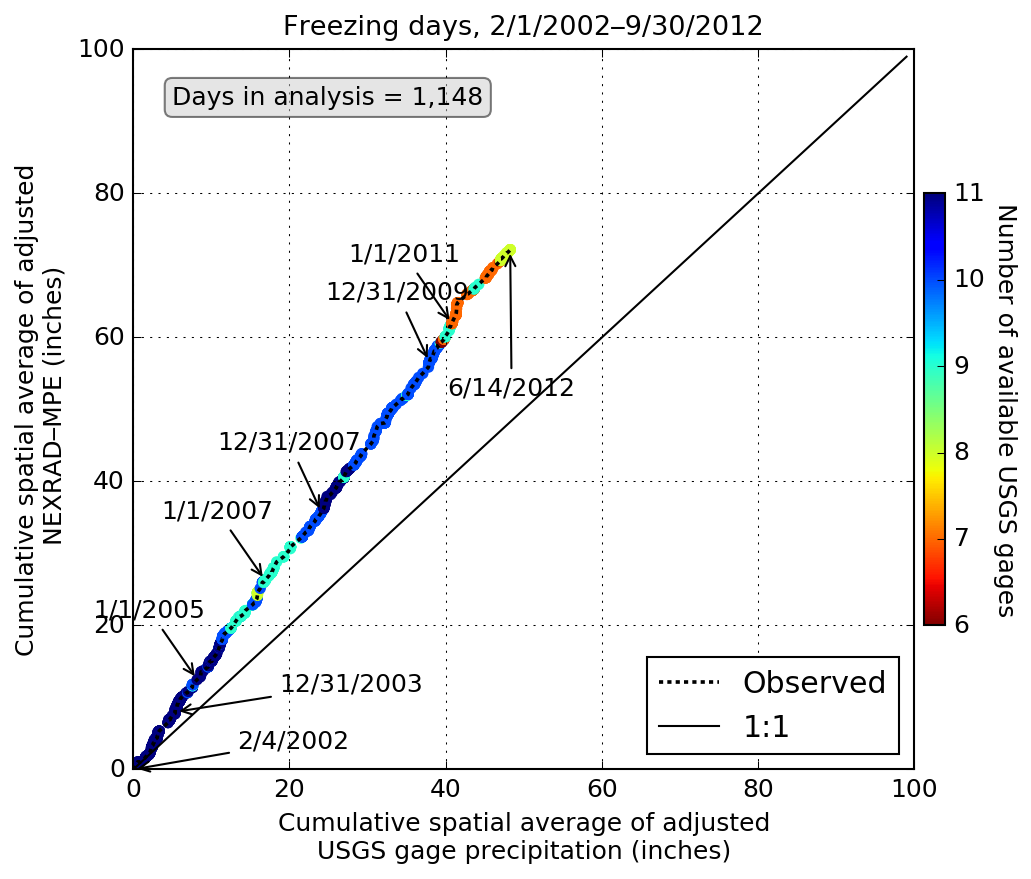
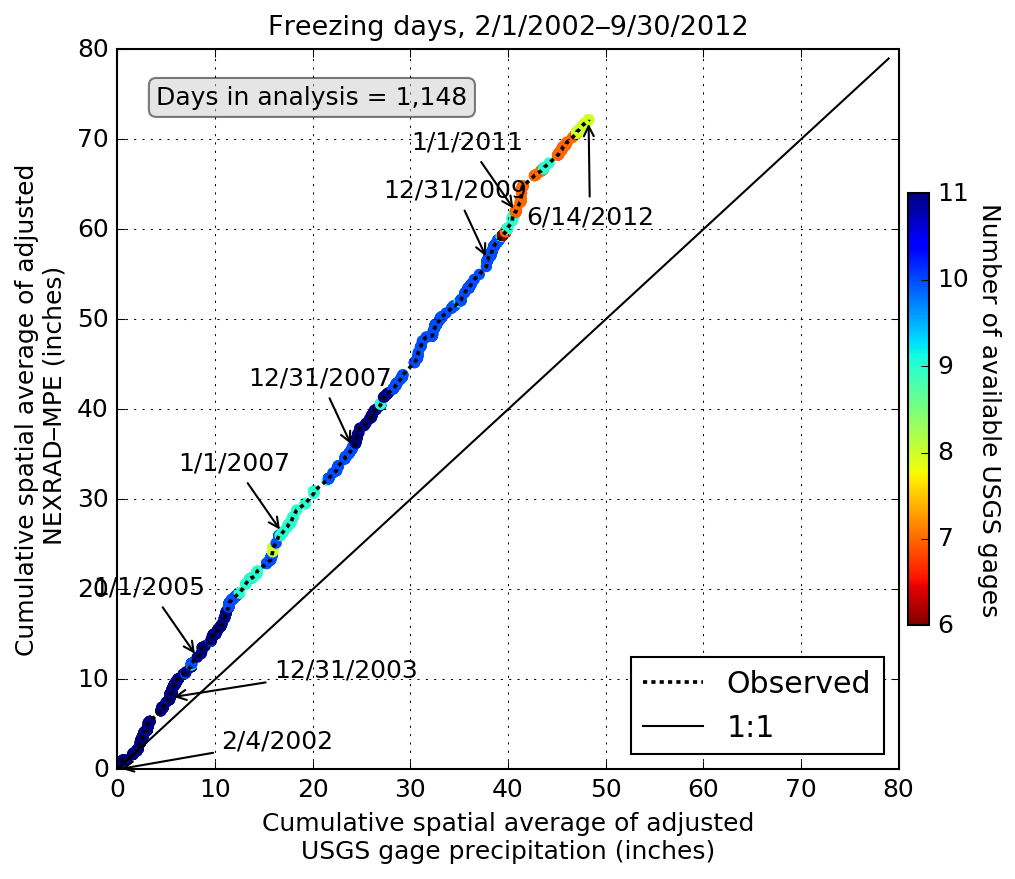
more follow-up revisions; move date annotate; capitalization; text spacing

diff --git a/plot_scripts/my_plot_module.py b/plot_scripts/my_plot_module.py
@@ -33,9 +33,11 @@ def colormap(in_fig,axes,x,y,color_values,text):
     cbar.ax.set_ylabel(text, rotation=270,labelpad=15)
 ###############################################################################    
 def axis_limits(x,y,axes):
-    if max(x) > 100 or max(y) > 100:
+    if max(x) > 300 or max(y) > 300:
+        base = 30
+    elif max(x) > 100 or max(y) > 100:
         base = 25
-    elif max(x) > 50 or max(y) > 50:
+    elif max(x) > 80 or max(y) > 80:
         base = 20
     elif max(x) > 25 or max(y) > 25:
         base = 10
@@ -80,7 +82,7 @@ def annotate_dates(criteria,ystart,finish,date_plot,x,y,axes):
                     date_list.remove(each)
             tick_cnt += 1 
     
-    for tick_yr in date_list: # always label first and last data point
+    for tick_yr in date_list: # always label first and last data point (max was -30,-70 modified 2/27/2018)
         if tick_yr == min(date_list) or tick_yr == date_list[1]:
             axes.annotate(datetime.datetime.strptime(tick_yr,'%Y-%m-%d %H:%M:%S').strftime('%#m/%#d/%Y'), xy=(x[date_plot.index(tick_yr)], 
                             y[date_plot.index(tick_yr)]),  xycoords='data',
@@ -89,7 +91,7 @@ def annotate_dates(criteria,ystart,finish,date_plot,x,y,axes):
         elif tick_yr == max(date_list):
             axes.annotate(datetime.datetime.strptime(tick_yr,'%Y-%m-%d %H:%M:%S').strftime('%#m/%#d/%Y'), xy=(x[date_plot.index(tick_yr)], 
                             y[date_plot.index(tick_yr)]),  xycoords='data',
-                            xytext=(-30, -70), textcoords='offset points',
+                            xytext=(-40, -50), textcoords='offset points',
                             arrowprops=dict(arrowstyle="->"))
         else:
             axes.annotate(datetime.datetime.strptime(tick_yr,'%Y-%m-%d %H:%M:%S').strftime('%#m/%#d/%Y'), xy=(x[date_plot.index(tick_yr)], 

diff --git a/parse_scripts/plot_parse_nexrad_hourly.py b/parse_scripts/plot_parse_nexrad_hourly.py
@@ -17,8 +17,8 @@ maindir = os.getcwd() + os.sep
 ######### User Input -> Options ############
 csv_out = 'no'
 mean_hist = 'yes'  # choice to creat plot 'yes' or 'no'
-type_plot = 'Fraction Hours Precip' # choices: 'Mean', 'Mean Intensity', 'Mean Cell', 'Total', 'Temperature Frequency', 'Hours Precip', 'Fraction Hours Precip'
-type_plot2 = '' # choices: 'Temperature Frequency', ''
+type_plot = 'Mean Cell' # choices: 'Mean', 'Mean Intensity', 'Mean Cell', 'Total', 'Temperature Frequency', 'Hours Precip', 'Fraction Hours Precip'
+type_plot2 = 'Temperature Frequency' # choices: 'Temperature Frequency', ''
 
 ### calculate helpful summary statistics input ###
 # temp range
@@ -283,7 +283,7 @@ if mean_hist == 'yes':
     ax1.set_xticks(tick_num+width)
     tick_labels = []
     for key in range(1,len(categories)+1):
-        tick_labels.append(str(categories['cat'+str(key)][0]) + ' ' + u"\u2013" + ' ' + str(categories['cat'+str(key)][1]))
+        tick_labels.append(str(categories['cat'+str(key)][0]) + u"\u2013" + str(categories['cat'+str(key)][1]))
     if len(categories) > 10:
         ax1.set_xticklabels(tick_labels,rotation=90,fontsize=9.8)
     else:

diff --git a/plot_scripts/plot_all_exceedence.py b/plot_scripts/plot_all_exceedence.py
@@ -21,7 +21,7 @@ ax1 = fig.add_subplot(111)
 ############# USER INPUT BLOCK ###############################################
 gage_nets = ['usgs','cocorahs'] # choices: 'cocorahs','usgs' 
 # NEXRAD data will be pulled from paired files in gage_nets
-criteria = 'Freeze' # choicea are 'Freeze' or 'Thaw' #see find_freeze_days.py for more info
+criteria = 'Thaw' # choicea are 'Freeze' or 'Thaw' #see find_freeze_days.py for more info
 exceed_prob_list = [0.001,0.01, 0.025, 0.05, 0.10, 0.25] # decimal exceendence probablity option (enter 0 to ignore)
 
 padj = 1.14 # Precip Adjustment Factor (snowcf applied below)
@@ -142,7 +142,7 @@ for gage_net in gage_nets:
         else:
             gtype = ''
         if padj != 1.0:
-            lab = 'Adjusted ' + gtype + 'USGS gages '
+            lab = 'Adjusted ' + gtype.lower() + 'USGS gages '
         else:
             lab = gtype + 'USGS gages '
         ax1.plot(zscore, all_gage_exceed, ls='-', color='blue', marker = 'o', lw=1.75, label = lab + text)

diff --git a/plot_scripts/dmass_freeze_thaw.py b/plot_scripts/dmass_freeze_thaw.py
@@ -19,10 +19,10 @@ maindir = os.getcwd() + os.sep
 criterium = ['Freeze','Thaw'] # choices: 'Freeze', 'Thaw'
 for criteria in criterium:
     netx = 'usgs' # choices: 'usgs', 'cocorahs'
-    nety = 'cocorahs' # choices: 'nexrad', 'cocorahs'
+    nety = 'nexrad' # choices: 'nexrad', 'cocorahs'
 
     ###### NEXRAD and USGS gages are adjusted in current HSPF application #######
-    nexadj = gadj = 1.00 # 1.14
+    nexadj = gadj = 1.14 # 1.14
     if netx == 'cocorahs': # don't adjust cocorahs data
         gadj = 1.0
     if netx == 'usgs' and nety == 'cocorahs': # don't apply adj to nety when compring usgs to cocorahs
